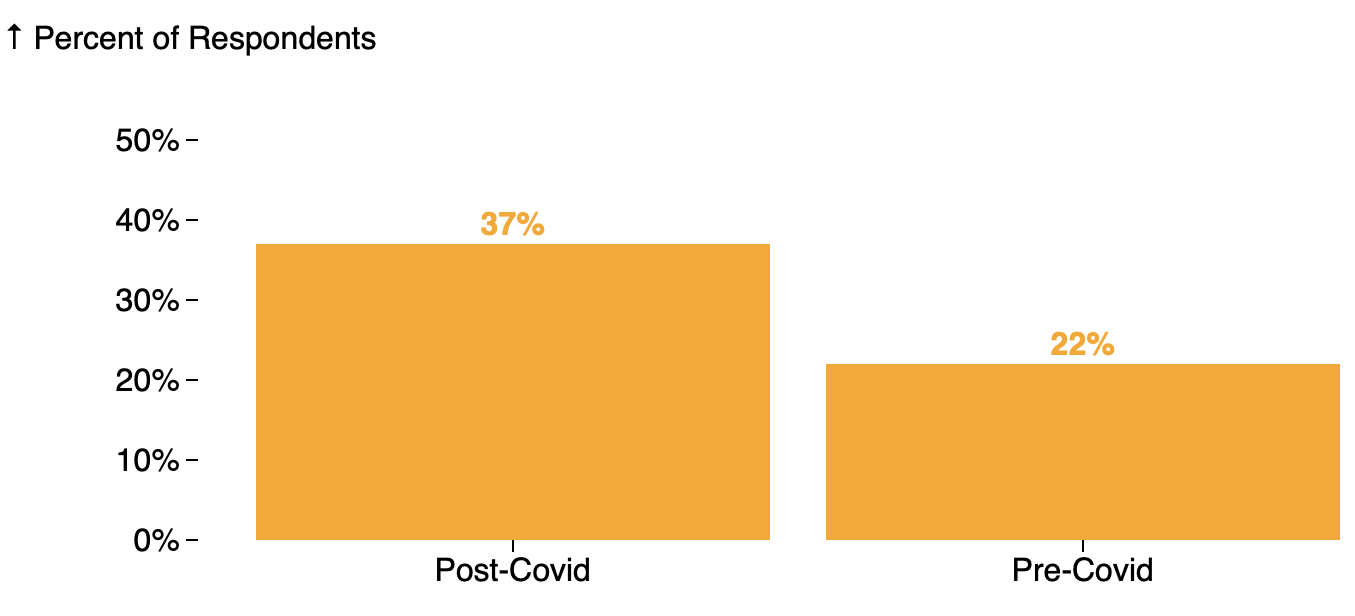
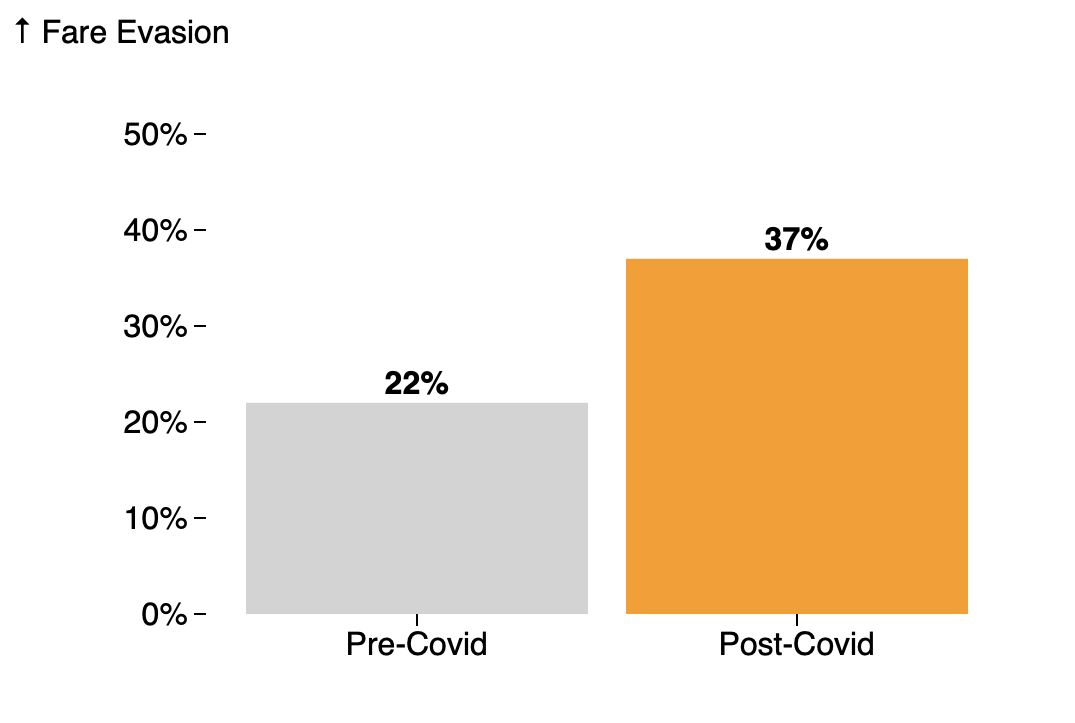
Initial commit

diff --git a/index_graph_1.html b/index_graph_1.html
@@ -7,13 +7,13 @@
                 <div class="chart-content">
                     <div class="chart-placeholder">
                         <!-- Replace with your Observable Plot visualization -->
-                        <div id="stacked-bar" class="plot-container"></div>
+                        <div id="diverging-bar-chart" class="plot-container"></div>
                         <!-- Load your visualization script -->
-                        <script type="module" src="./assets/js/speeds_stackedbar.js"></script>
+                        <script type="module" src="./assets/js/daily_ridership_bardiverge.js"></script>
                     </div>
                 </div>
                 <div class="chart-credits">
-                    <span>Source: Global Enterprise Research Initiative</span>
-                    <span>Updated Quarterly • Next: October 2025</span>
+                    <span></span>
+                    <span></span>
                 </div>
             </div>

diff --git a/assets/js/ridership_total_line.js b/assets/js/ridership_total_line.js
@@ -77,13 +77,13 @@ async function drawYearlyRidershipLine() {
       }),
 
       // Dots
-      //Plot.dot(raw, {
-        //x: "Year_clean",
-        //y: "Ridership",
-        //r: 5,
-        //fill: d => (d.Projected ? "steelblue" : "#FF9B00"),
-        //title: d => `${d.Year}: ${d3.format(",")(d.Ridership)}`
-      //}),
+      Plot.dot(labeled, {
+        x: "Year_clean",
+        y: "Ridership",
+        r: 5,
+        fill: d => (d.Projected ? "#FF9B00" : "#FF9B00"),
+        title: d => `${d.Year}: ${d3.format(",")(d.Ridership)}`
+      }),
 
       // 👉 Labels with "Projected" note for 2025*
       Plot.text(labeled, {
@@ -97,7 +97,7 @@ async function drawYearlyRidershipLine() {
         fontWeight: "bold",
         fontSize: 16,
         textAnchor: "start",
-        fill: d => (d.Projected ? "steelblue" : "#FF9B00")
+        fill: d => (d.Projected ? "black" : "black")
       }),
 
       Plot.ruleY([0])

diff --git a/index_alt_main_theone.html b/index_alt_main_theone.html
@@ -261,7 +261,7 @@
               <div class="chart-container-1">
                 <div class="chart-placeholder-1">
                   <div class="chart-placeholder-image-1">
-                    <img src="./assets/images/fare_evasion.png" alt="Cost Efficiency Chart" />
+                    <img src="./assets/images/ridership_daily.png" alt="Cost Efficiency Chart" />
                   </div>
                 </div>
               </div>
@@ -275,7 +275,7 @@
               <div class="chart-container-1">
                 <div class="chart-placeholder-1">
                     <div class="chart-placeholder-image-1">
-                        <img src="./assets/images/bar_evasion.png" alt="Cost Efficiency Chart" />
+                        <img src="./assets/images/dev_from_avg_ridership.png" alt="Cost Efficiency Chart" />
                       </div>
                 </div>
               </div>

diff --git a/assets/js/fare_evasion_bar.js b/assets/js/fare_evasion_bar.js
@@ -16,7 +16,7 @@ const chart = Plot.plot({
   style: { background: "#fff", fontFamily: "Helvetica" },
   y: {
     domain: [0, 50],   // adjust as needed
-    label: "Percent of Respondents",
+    label: "Fare Evasion",
     tickFormat: d => d + "%"
   },
   x: {
@@ -55,7 +55,7 @@ const chart = Plot.plot({
     // Explicit Y-axis
     Plot.axisY({
       scale: "y",
-      label: "Percent of Respondents",
+      label: "Fare Evasion",
       fontSize: 16,
       labelFont: "Helvetica",
       labelFontSize: 14,

diff --git a/assets/js/graph2.js b/assets/js/graph2.js
@@ -20,7 +20,7 @@ async function drawLineChartWithLabels() {
 
   const chart = Plot.plot({
     width: 900,
-    height: 500,
+    height: 600,
     marginLeft: 100,
     marginRight: 100,
     marginBottom: 100,
@@ -64,7 +64,7 @@ async function drawLineChartWithLabels() {
         x: "date",
         y: "Fare Evasion_ridership",
         stroke: "#FF9B00",
-        strokeWidth: 4,
+        strokeWidth: 5,
         curve: "monotone-x"
       }),
       Plot.dot(labeled, {

diff --git a/assets/js/daily_ridership_bardiverge.js b/assets/js/daily_ridership_bardiverge.js
@@ -61,14 +61,14 @@ const chart = Plot.plot({
     Plot.axisX({
       scale: "x",
       label: "Deviation from Average Daily Ridership",
-      fontSize: 14,
+      fontSize: 16,
       labelFont: "Helvetica",
       tickFormat: d3.format(".2s")
     }),
     Plot.axisY({
       scale: "y",
       label: "Year",
-      fontSize: 14,
+      fontSize: 16,
       labelFont: "Helvetica"
     }),
     // Annotation text for 2025*
